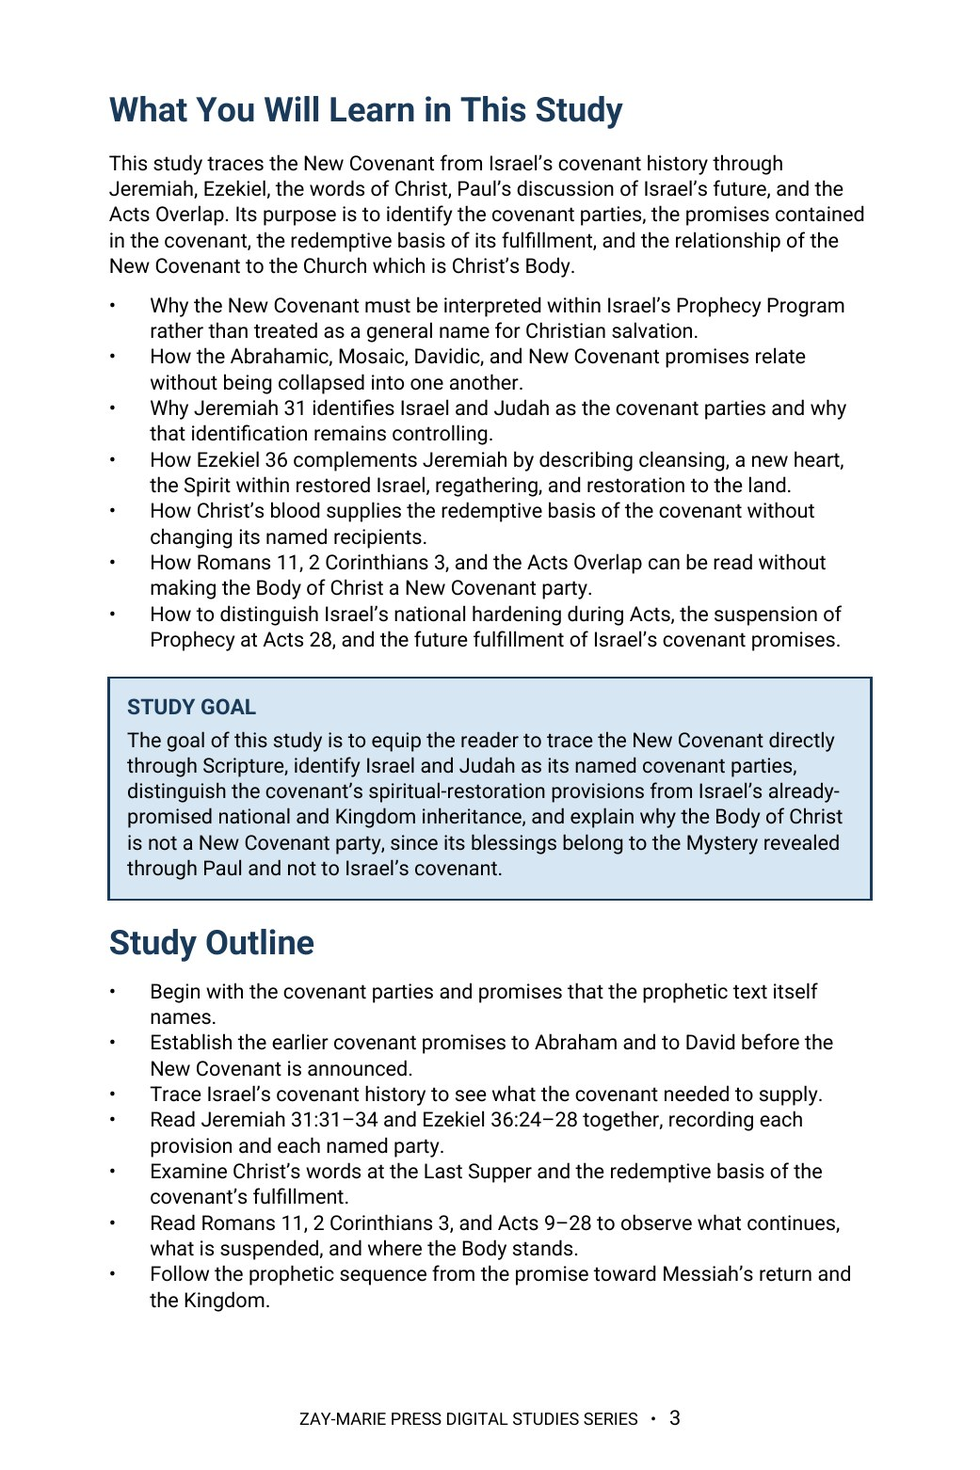
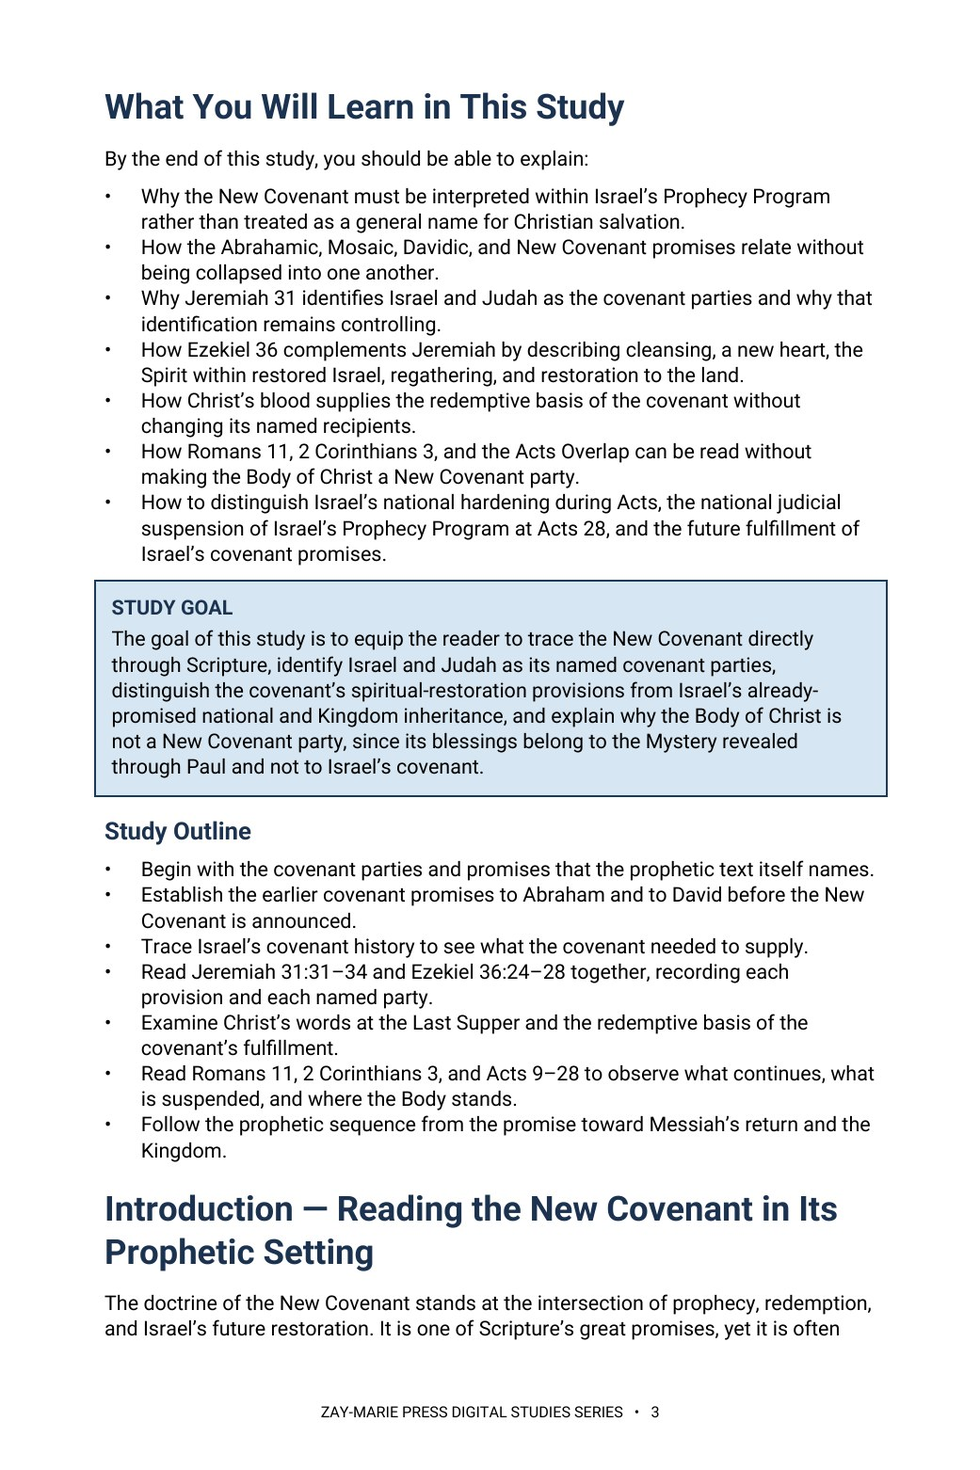
Study 12: rebuilt to current geometry and 10 pt; 15 pages; previews, count; trackers v1.63/v1.157
Claude-Session: https://claude.ai/code/session_01KcENxFzE91mCRyTPWhcwnE

Changed region(s): [[0.0922, 0.0615, 0.9222, 0.9219], [0.3074, 0.9526, 0.6455, 0.9834]]

diff --git a/study-12-the-new-covenant.html b/study-12-the-new-covenant.html
@@ -15,8 +15,8 @@
 <section class="detail-section cream"><div class="wrap"><div class="eyebrow">KEY SCRIPTURES</div><h2>Examine the Passages for Yourself</h2><div class="scripture-grid"><div class="scripture-card"><h3>Genesis 12:1–3; 17:7–8</h3><p>Establishes the national, land, and blessing promises that precede the New Covenant.</p></div><div class="scripture-card"><h3>Exodus 19–24</h3><p>Defines the Mosaic Covenant Israel broke.</p></div><div class="scripture-card"><h3>2 Samuel 7:12–16</h3><p>Connects David’s promised throne and Kingdom to Israel’s future hope.</p></div><div class="scripture-card"><h3>Jeremiah 31:31–34</h3><p>Names Israel and Judah as the New Covenant parties and declares its provisions.</p></div><div class="scripture-card"><h3>Ezekiel 36:22–28</h3><p>Promises cleansing, a new heart, the Spirit within, regathering, and restoration.</p></div><div class="scripture-card"><h3>Luke 22:20</h3><p>Relates Christ’s blood to the covenant’s redemptive basis.</p></div><div class="scripture-card"><h3>Romans 11:25–29</h3><p>Affirms Israel’s future deliverance and the certainty of God’s calling.</p></div><div class="scripture-card"><h3>Acts 28:25–28</h3><p>Marks the national judicial suspension of Israel’s Prophecy Program, not abolition and not a transfer, while Mystery continues.</p></div></div></div></section>
 <section class="detail-section"><div class="wrap"><div class="eyebrow">FROM THE STUDY</div><h2>The Covenant Arrangement Is New; Its People Are Not</h2><div class="excerpt"><blockquote>“Christ’s blood provides the New Covenant’s redemptive basis. It does not change the covenant parties named by Jeremiah.”</blockquote><p>Receiving blessing through Christ does not automatically make a person or company a party to Israel’s covenant. The covenant belongs to Israel’s Prophecy Program; the Body’s blessings belong to the Mystery revealed through Paul.</p></div></div></section>
 <section class="detail-section soft"><div class="wrap"><div class="eyebrow">A LOOK INSIDE</div><h2>Preview the Study Before You Purchase</h2><p class="preview-instruction">Click any page to enlarge it for reading.</p><div class="preview-grid"><div class="preview-card"><a class="preview-image-link" data-preview-lightbox href="assets/study-12-page-2.jpg"><img src="assets/study-12-page-2.jpg" alt="Study 12 interior preview — page 2, table of contents"/></a><div class="page-no">Page 2</div><h3>Table of Contents</h3><p>See the full structure of the study, from the introduction through the final synthesis.</p></div><div class="preview-card"><a class="preview-image-link" data-preview-lightbox href="assets/study-12-page-3.jpg"><img src="assets/study-12-page-3.jpg" alt="Study 12 interior preview — page 3, what you will learn"/></a><div class="page-no">Page 3</div><h3>What You Will Learn</h3><p>See the study’s goals and the questions it will teach you to answer.</p></div><div class="preview-card"><a class="preview-image-link" data-preview-lightbox href="assets/study-12-page-5.jpg"><img src="assets/study-12-page-5.jpg" alt="Study 12 interior preview — page 5, the Davidic covenant, Israel’s covenant failure, and Jeremiah 31"/></a><div class="page-no">Page 5</div><h3>Israel’s Covenant History and Jeremiah 31</h3><p>Follow the covenant story from David’s throne through Israel’s failure to the opening of Jeremiah 31.</p></div></div></div></section>
-<section class="detail-section"><div class="wrap"><div class="eyebrow">WHAT’S INCLUDED</div><h2>A Focused Study Built for<br/>Understanding and Teaching</h2><div class="includes-grid"><div class="include-item"><h3>14-Page In-Depth Biblical Study</h3><p>A focused, Scripture-based examination of the New Covenant’s parties, promises, and future fulfillment.</p></div><div class="include-item"><h3>Ten Core Teaching Sections</h3><p>Move from covenant history through Jeremiah, Ezekiel, Christ’s work, Romans 11, and the Acts Overlap.</p></div><div class="include-item"><h3>Covenant-History Foundation</h3><p>Distinguish the Abrahamic, Mosaic, Davidic, and New Covenants by their revealed functions.</p></div><div class="include-item"><h3>Jeremiah 31 and Ezekiel 36 Study</h3><p>Read the New Covenant’s named parties and restoration provisions in their prophetic setting.</p></div><div class="include-item"><h3>Romans 11 and Acts Overlap Analysis</h3><p>Preserve Israel’s future covenant fulfillment while distinguishing national hardening from program suspension.</p></div><div class="include-item"><h3>Review and Discussion Questions</h3><p>Test the controlling distinctions concerning covenant parties, redemptive basis, and Kingdom inheritance.</p></div><div class="include-item"><h3>Teaching Outline</h3><p>A ready framework for explaining the covenant without transferring Israel’s promises to the Body.</p></div><div class="include-item"><h3>Guided Study and Final Synthesis</h3><p>Trace the passages directly and build the argument from Scripture with precision.</p></div></div></div></section>
-<section class="detail-section cream"><div class="wrap"><div class="final-buy"><div><div class="eyebrow">STUDY 12 · DIGITAL STUDY</div><h2>The New Covenant</h2><p>14-page digital PDF · For personal use</p></div><div class="final-offer"><div class="detail-price">$5.99</div><span class="detail-button pending" aria-disabled="true">Get the Study</span></div></div><a class="back-link" href="digital-studies.html">← Back to All Digital Studies</a></div></section><section class="study-method-course-bridge"><div class="wrap"><div class="study-method-course-panel"><div><div class="eyebrow">BUILD THE INTERPRETIVE METHOD</div><h2>Want More Than a Focused Study?</h2><p>Digital Studies examine particular biblical subjects and difficult passages. The 40-lesson Biblical Hermeneutics course teaches a complete, repeatable method for establishing meaning in context, determining proper assignment, and making responsible application.</p></div><a class="btn btn-primary" href="biblical-hermeneutics-course.html">BIBLICAL HERMENEUTICS COURSE</a></div></div></section></main>
+<section class="detail-section"><div class="wrap"><div class="eyebrow">WHAT’S INCLUDED</div><h2>A Focused Study Built for<br/>Understanding and Teaching</h2><div class="includes-grid"><div class="include-item"><h3>15-Page In-Depth Biblical Study</h3><p>A focused, Scripture-based examination of the New Covenant’s parties, promises, and future fulfillment.</p></div><div class="include-item"><h3>Ten Core Teaching Sections</h3><p>Move from covenant history through Jeremiah, Ezekiel, Christ’s work, Romans 11, and the Acts Overlap.</p></div><div class="include-item"><h3>Covenant-History Foundation</h3><p>Distinguish the Abrahamic, Mosaic, Davidic, and New Covenants by their revealed functions.</p></div><div class="include-item"><h3>Jeremiah 31 and Ezekiel 36 Study</h3><p>Read the New Covenant’s named parties and restoration provisions in their prophetic setting.</p></div><div class="include-item"><h3>Romans 11 and Acts Overlap Analysis</h3><p>Preserve Israel’s future covenant fulfillment while distinguishing national hardening from program suspension.</p></div><div class="include-item"><h3>Review and Discussion Questions</h3><p>Test the controlling distinctions concerning covenant parties, redemptive basis, and Kingdom inheritance.</p></div><div class="include-item"><h3>Teaching Outline</h3><p>A ready framework for explaining the covenant without transferring Israel’s promises to the Body.</p></div><div class="include-item"><h3>Guided Study and Final Synthesis</h3><p>Trace the passages directly and build the argument from Scripture with precision.</p></div></div></div></section>
+<section class="detail-section cream"><div class="wrap"><div class="final-buy"><div><div class="eyebrow">STUDY 12 · DIGITAL STUDY</div><h2>The New Covenant</h2><p>15-page digital PDF · For personal use</p></div><div class="final-offer"><div class="detail-price">$5.99</div><span class="detail-button pending" aria-disabled="true">Get the Study</span></div></div><a class="back-link" href="digital-studies.html">← Back to All Digital Studies</a></div></section><section class="study-method-course-bridge"><div class="wrap"><div class="study-method-course-panel"><div><div class="eyebrow">BUILD THE INTERPRETIVE METHOD</div><h2>Want More Than a Focused Study?</h2><p>Digital Studies examine particular biblical subjects and difficult passages. The 40-lesson Biblical Hermeneutics course teaches a complete, repeatable method for establishing meaning in context, determining proper assignment, and making responsible application.</p></div><a class="btn btn-primary" href="biblical-hermeneutics-course.html">BIBLICAL HERMENEUTICS COURSE</a></div></div></section></main>
 <div class="preview-lightbox" id="preview-lightbox" role="dialog" aria-modal="true" aria-label="Enlarged study page preview"><button class="preview-lightbox-close" type="button" aria-label="Close enlarged preview">×</button><img src="" alt=""/><div class="preview-lightbox-hint">Scroll to read the full page · Press Esc or click outside the page to close</div></div>
 <footer class="site-footer"><div class="wrap footer-grid"><div class="footer-about"><h3>Zay-Marie Press</h3><p class="footer-tagline"><em>Where the Bible Means What It Says.</em></p><p>Zay-Marie Press is a Christian theological publisher dedicated to producing doctrinally precise, carefully structured biblical resources that equip pastors, teachers, and serious students with clarity, depth, and Scripture-anchored truth.</p><p><a href="https://zaymariepress.com">zaymariepress.com</a><br/><a href="mailto:info@zaymariepress.com">info@zaymariepress.com</a></p></div><div class="footer-column"><h3>Explore</h3><div class="footer-links-stacked"><a href="books.html">Books</a><br/><a href="series.html">Series</a><br/><a href="biblical-hermeneutics-course.html">Course</a><br/><a href="digital-studies.html">Digital Studies</a><br/><a href="resources.html">Resources</a><br/><a href="bible-book-summaries.html">Bible Book Summaries</a><br/><a href="doctrinal-packets.html">Doctrinal Packets</a><br/><a href="historical-drift.html">Historical Drift</a><br/><a href="about.html">About</a><br/><a href="contact.html">Contact</a></div></div><div class="footer-column"><h3>Reader Support</h3><div class="footer-links-stacked"><a href="reader-support.html#faq">FAQ</a><br/><a href="reader-support.html#shipping-returns">Shipping &amp; Returns</a><br/><a href="reader-support.html#digital-downloads">Digital Downloads</a><br/><a href="reader-support.html#contact-support">Contact Support</a></div></div><div class="footer-column"><h3>Acts Overlap</h3><p><strong>Acts Overlap Theology Series</strong></p><p><em>Two Distinct Streams. One Overlap.</em></p><p><a href="series.html">Series Overview</a></p></div></div><div class="wrap footer-bottom">© 2026 Zay-Marie Press. All rights reserved.</div></footer>
 <script src="site.js"></script><script>(function(){var box=document.getElementById("preview-lightbox"),img=box.querySelector("img"),close=box.querySelector(".preview-lightbox-close"),hint=box.querySelector(".preview-lightbox-hint"),hintTimer;function shut(){clearTimeout(hintTimer);box.classList.remove("open");hint.classList.remove("fade");document.body.style.overflow="";img.src=""}document.querySelectorAll("[data-preview-lightbox]").forEach(function(a){a.addEventListener("click",function(e){e.preventDefault();clearTimeout(hintTimer);img.src=a.getAttribute("href");img.alt=a.querySelector("img").alt;hint.classList.remove("fade");box.classList.add("open");document.body.style.overflow="hidden";box.scrollTop=0;hintTimer=setTimeout(function(){hint.classList.add("fade")},3000)})});close.addEventListener("click",shut);box.addEventListener("click",function(e){if(e.target===box)shut()});document.addEventListener("keydown",function(e){if(e.key==="Escape"&&box.classList.contains("open"))shut()})})();</script></body></html>

diff --git a/site.js b/site.js
@@ -62,7 +62,7 @@ const resourceModal=document.querySelector('#resource-modal'), resourceModalTitl
 if(resourceModal&&resourceModalTriggers.length){const closeResourceModal=()=>{resourceModal.hidden=true;document.body.classList.remove('resource-modal-open');lastResourceTrigger?.focus();};resourceModalTriggers.forEach(trigger=>trigger.addEventListener('click',()=>{lastResourceTrigger=trigger;if(resourceModalTitle)resourceModalTitle.textContent=trigger.dataset.title||'Resource';if(resourceModalDescription)resourceModalDescription.textContent=trigger.dataset.description||'';if(resourceModalLink){resourceModalLink.href=trigger.dataset.href||'#';resourceModalLink.textContent=trigger.dataset.linkText||'OPEN RESOURCE';}resourceModal.hidden=false;document.body.classList.add('resource-modal-open');resourceModalClose?.focus();}));resourceModalClose?.addEventListener('click',closeResourceModal);resourceModal.addEventListener('click',e=>{if(e.target===resourceModal)closeResourceModal();});document.addEventListener('keydown',e=>{if(e.key==='Escape'&&!resourceModal.hidden)closeResourceModal();});}
 
 /* Display the verified final-PDF page count at the primary purchase decision point. */
-const digitalStudyPageCounts={1:17,2:19,3:16,4:18,5:16,6:16,7:14,8:13,9:16,10:20,11:15,12:14,13:19,14:15,15:15,16:16,17:18,18:18,19:16,20:16,21:17,22:16,23:14,24:16,25:17,26:16,27:16,28:16,29:19,30:17,31:18,32:19,33:18,34:16,35:16,36:16,37:16,38:16,39:16,40:16,41:16,42:16,43:20,44:16,45:16,46:16,47:16,48:16,49:17,50:16,51:16,52:16,53:16,54:16,55:16,56:16,57:16,58:16,59:20,60:15,61:16,62:16,63:16,64:16,65:16,66:16,67:16,68:16,69:16,70:16,71:16};
+const digitalStudyPageCounts={1:17,2:19,3:16,4:18,5:16,6:16,7:14,8:13,9:16,10:20,11:15,12:15,13:19,14:15,15:15,16:16,17:18,18:18,19:16,20:16,21:17,22:16,23:14,24:16,25:17,26:16,27:16,28:16,29:19,30:17,31:18,32:19,33:18,34:16,35:16,36:16,37:16,38:16,39:16,40:16,41:16,42:16,43:20,44:16,45:16,46:16,47:16,48:16,49:17,50:16,51:16,52:16,53:16,54:16,55:16,56:16,57:16,58:16,59:20,60:15,61:16,62:16,63:16,64:16,65:16,66:16,67:16,68:16,69:16,70:16,71:16};
 const digitalStudyMatch=window.location.pathname.match(/\/study-(\d+)-/i);
 const digitalStudyFormat=document.querySelector('.detail-hero .detail-format');
 if(digitalStudyMatch&&digitalStudyFormat){const studyNumber=Number(digitalStudyMatch[1]),pageCount=digitalStudyPageCounts[studyNumber];if(pageCount)digitalStudyFormat.textContent=`Digital PDF · ${pageCount} Pages`;}

diff --git a/CLAUDE.md b/CLAUDE.md
@@ -23,7 +23,7 @@ These are kept in the repo at `controlling-documents/` and are the current versi
 - As of v1.50 (publisher directive, 2026-10-03), the **What You Will Learn in This Study** section is always bulleted, never set as running paragraphs, written into this file in the same pass (Master Standard Section 3 item 4, Section 6 structure line, Section 22): a list of bullet points, each describing one process, textual marker or interpretive discipline the reader will practice (Section 17 still governs what they may say); at most one short lead-in line may stand above the bullets (for example, “By the end of this study, you should be able to:”); the Study Goal callout and the Study Outline keep their own forms. It governs every new study and every study rebuilt or retrofitted from now on; earlier studies take it when reopened or when the publisher directs. In every study check (Step 1), report whether the section is bulleted. First applied to Study 43.
 **`controlling-documents/Digital_Studies_Relationship_Map_v1.39.md`** — records each study's distinct subject, its related studies, the eight priced six-study collections, the Paul's Missionary Journeys cross-reference map, and the five primary catalog categories (currently version 1.39, covers Studies 1–71; update it as new studies publish, bump the version number, rename the file to match, and log the change in its own version-history table — mirroring the Master Standard's `_vX.Y` filename convention). Check a proposed topic against it before recommending or writing a new study. (2026-09-28: the file was missing from this repo despite this note referencing it; replaced from the publisher's copy and bumped v1.15→v1.25 in the same pass. If this note ever again points to a version not present under `controlling-documents/`, ask the publisher for a copy rather than proceeding without the check.)
 - **`controlling-documents/Digital_Studies_Category_Standard_v1.1.md`** — FINAL and binding (publisher, 2026-10-01): the rules for the five primary catalog categories (Foundations, Israel & Prophecy, Body of Christ, Passages, Doctrinal Themes), the ordered decision procedure for new studies, the precedents, all 71 fixed assignments, and the cover-label form for each category. Read it before placing any card or cover label. Do not ask the publisher where a study belongs; apply the procedure and state the result. Only the publisher changes a ruling; then bump this Standard's version and filename, re-letter the cover, and update the Relationship Map.
-- **`controlling-documents/Doctrinal_Upgrade_Retrofit_Plan_v1.62.md`** — working tracker for retrofitting Studies 1–59 to the 2026-10-02 doctrinal upgrade (Framework/PAM v1.1, Master Standard v1.40, Rules 7–17): withdrawn-wording search keys, impact tiers, waves and the per-study method. Read it before continuing the retrofit in any session; update status, bump the version and rename the file as work proceeds.
+- **`controlling-documents/Doctrinal_Upgrade_Retrofit_Plan_v1.63.md`** — working tracker for retrofitting Studies 1–59 to the 2026-10-02 doctrinal upgrade (Framework/PAM v1.1, Master Standard v1.40, Rules 7–17): withdrawn-wording search keys, impact tiers, waves and the per-study method. Read it before continuing the retrofit in any session; update status, bump the version and rename the file as work proceeds.
 - **`controlling-documents/Doctrinal_Packet_Standard_v0.3.md`** — Doctrinal Packet Standard (DRAFT; §7 approved). Governs the separate Doctrinal Packets product strand (5-page interpretive PDFs per Bible book — a print-friendly cover as page 1 plus 4 content pages, $2.99, KJV, pilot: Genesis, live at `packet-genesis.html`, hub `doctrinal-packets.html`; site pages say "5 Pages", cover styles live in `packets.css`, Old Testament blue and New Testament soft pale green, hub listed in Bible order). **Preview rule (publisher directive, 2026-09-29, packets only):** previews show about one page's worth in two cropped views (top of page 1 through the anchor texts; the chart section) — never the exegesis, architecture, Mystery contrast, logic chain, outline, or closing. Master Standard §16/§17 still govern Digital Studies. Bump the version and rename the file as the Standard is finalized.
 - **`controlling-documents/Preview_Page_Spoiler_Retrofit_Audit_v1.4.md`** — working tracker for the Studies 1–60 preview-page conclusion-spoiler retrofit (see the section below). Read it before continuing that audit in any session; update its status fields and changelog, bump the version, and rename the file to match as the audit proceeds — same `_vX.Y` convention as the other controlling documents. As of v1.1, the website-side half was DONE: all 60 studies' "What You'll Study" text was judged against the rule (methodology documented in the file) and 22 points across 11 studies were rewritten and pushed; an unrelated Study 22 content bug (Study 21's content had leaked into it) was also found and fixed. As of v1.2, the publisher supplied Studies 1–60's interior production PDFs and the interior-PDF half was also surveyed (read-only): 10 studies (37, 41, 45, 47, 48, 49, 51, 52, 53, 54) were found to have at least one interior "What You Will Learn" violation, 50 studies were confirmed compliant, and the orphaned `assets/study-45-sanctification-under-grace.docx` (removed from the repo per the publisher in v1.0) was confirmed word-for-word identical to Study 45's actual production interior PDF content. As of v1.3, the publisher supplied editable DOCX sources for all 10 violating studies; all 15 violating points were rewritten and approved, delivered as corrected final PDFs, and — along the way — a second defect was found and fixed (Studies 47 and 48's source DOCX still had an unintegrated cover placeholder despite both being long-published live with real covers; fixed by inserting the existing approved cover art). The website's "What You Will Learn" preview image (`study-NN-page-3.jpg`) was regenerated from the corrected content for all 10 studies and pushed to `main` (commit `cea1859`), verified against a fresh clone. **The website side of this audit is now fully compliant for all 60 studies.** Outstanding: the publisher's purchasable interior PDF files themselves have corrected versions delivered, but distribution to existing purchasers was decided by the publisher on 2026-09-29: silent swap of the files behind the existing downloads, no reissue notice (recorded in the v1.4 changelog entry; the product files are not in this repo).
 

diff --git a/controlling-documents/Doctrinal_Upgrade_Retrofit_Plan_v1.63.md b/controlling-documents/Doctrinal_Upgrade_Retrofit_Plan_v1.63.md
@@ -155,3 +155,4 @@ Working tracker for correcting published studies to the Framework/PAM v1.1, Mast
 - v1.60 (2026-10-03): Publisher ruling: "the Acts Overlap" is a teaching term, not a working term, and is allowed in reader-facing copy (the reader-facing wording rule bans only the Framework, PAM, Master Standard, rule numbers, standing and anchoring sentences, review notes, audit trackers, "firewall" and similar control labels). The three Study 15 page-copy changes of v1.59 item (2) are reverted to the original wording (kicker, About, What's Included); the interior was never changed. The v1.59 wording that treated it as a flag is withdrawn.
 - v1.61 (2026-10-03): Studies 59 and 60 rebuilt to the standards (Roboto, page geometry, 10 pt, bulleted What You Will Learn, five callouts, KJV table, Rules 7–19 wording) and website step done on the publisher’s approvals. Study 59: 20 pages; Study 60: 15 pages after five approved exegetical additions (Matt 18:17; Acts 9:31; Acts 14:23, 14:27, 15:22; 1 Cor 12:27–28 with Eph 4:11–12; Revelation 1:4, 2:5, 2:23, 2:26–27, 22:16), every new quotation checked against the KJV. `site.js` 59:20, 60:15; page-count text updated; Study 59 "Seven Callouts" corrected to "Five Callouts"; previews re-rendered at 1041×1562 (59: pages 2, 3, 9 with page 7 replaced by 9 and `study-59-page-7.jpg` removed; 60: pages 2, 3, 4); hero eyebrows set to the standard "DIGITAL STUDY" form (they carried stale category names; Study 58 still carries "BIBLICAL INTERPRETATION", not touched). Open: anchor lines for Studies 59 and 60; blank space at the foot of Study 59 page 17.
 - v1.62 (2026-10-03): Publisher approved the two open items on Studies 59 and 60 as built: the anchor lines stay (Study 59: "This reading of 1 Timothy, 1 Thessalonians, 2 Timothy and Colossians rests on each letter’s own audience markers and setting."; Study 60: "This reading of 1 Thessalonians and Colossians rests on each letter’s own audience markers and setting."), and the white space at the foot of Study 59 page 17 (keep-with-next on the Scripture-Tracing heading, lead-in and table) is accepted. Both items closed; no file changes.
+- v1.63 (2026-10-03): Study 12 rebuilt to the current page geometry and 10 pt body (it was still on 432 × 649 pt at 9 pt) on the publisher’s two approvals; website step done. 15 pages (was 14). Changes: What You Will Learn gets the lead-in "By the end of this study, you should be able to explain:" and the two-sentence purpose paragraph above the bullets is removed (the Introduction carries the same points); last bullet now "the national judicial suspension of Israel’s Prophecy Program at Acts 28"; KJV table added at Scripture-Tracing (Jer. 31:31, Jer. 31:33, Ezek. 36:26–27, Luke 22:20, each checked against the KJV); the last Final Synthesis paragraph kept with the imprint (layout only) so the imprint is not alone. `site.js` 12:15; page-count text 14 → 15; previews 2, 3 and 5 re-rendered at 1041×1562 (same pages, new content positions). Remaining Wave 5 geometry/10 pt resets: see the studies still at 9 pt or older geometry.

diff --git a/controlling-documents/Digital_Studies_PAM_Audit_v1.157.md b/controlling-documents/Digital_Studies_PAM_Audit_v1.157.md
@@ -386,3 +386,4 @@ Study 15 PDF not yet supplied. Typography: none of Studies 2, 3, 6, 8 is in EB G
 - v1.154 (2026-10-03): "Acts Overlap" restored to the Study 15 page copy (see Retrofit Plan v1.60).
 - v1.155 (2026-10-03): Studies 59 and 60 rebuilt and published at 20 and 15 pages (see Retrofit Plan v1.61).
 - v1.156 (2026-10-03): Studies 59 and 60 anchor lines and Study 59 page 17 spacing approved as built (see Retrofit Plan v1.62).
+- v1.157 (2026-10-03): Study 12 rebuilt to the current geometry and published at 15 pages (see Retrofit Plan v1.63).
